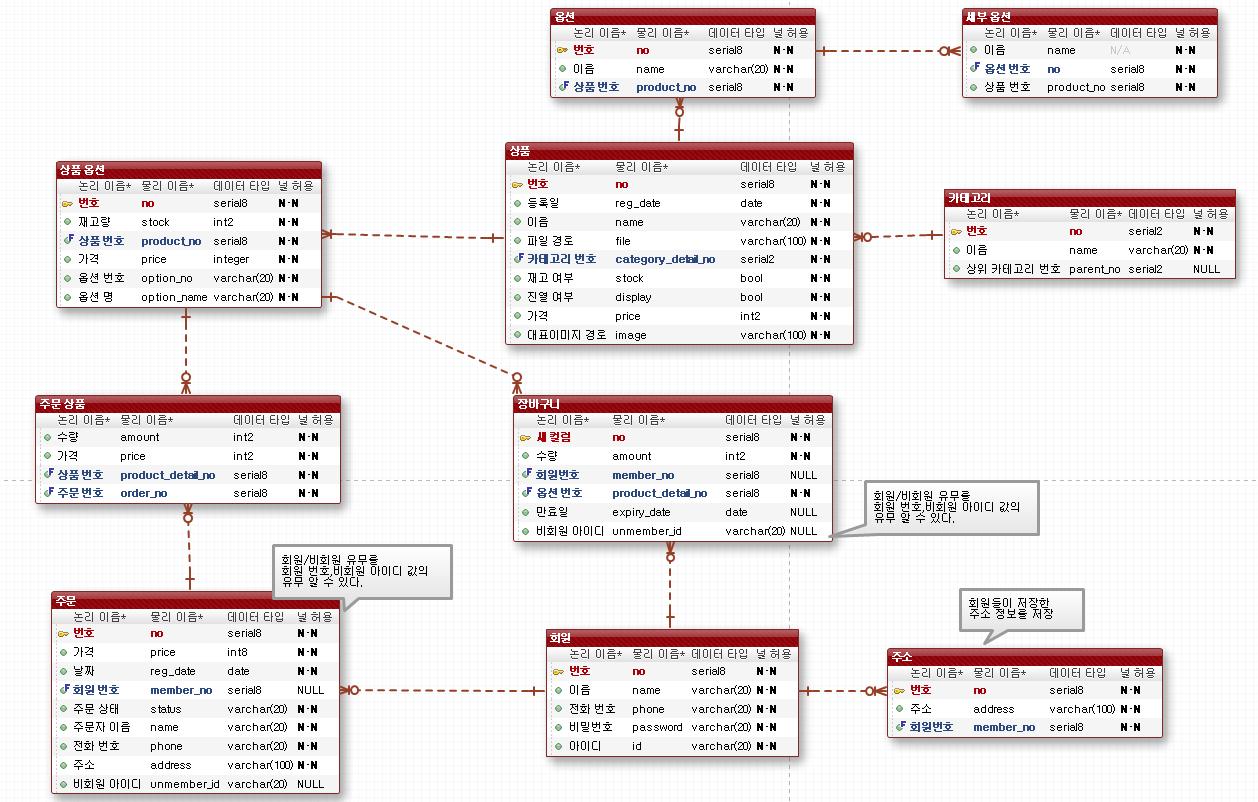
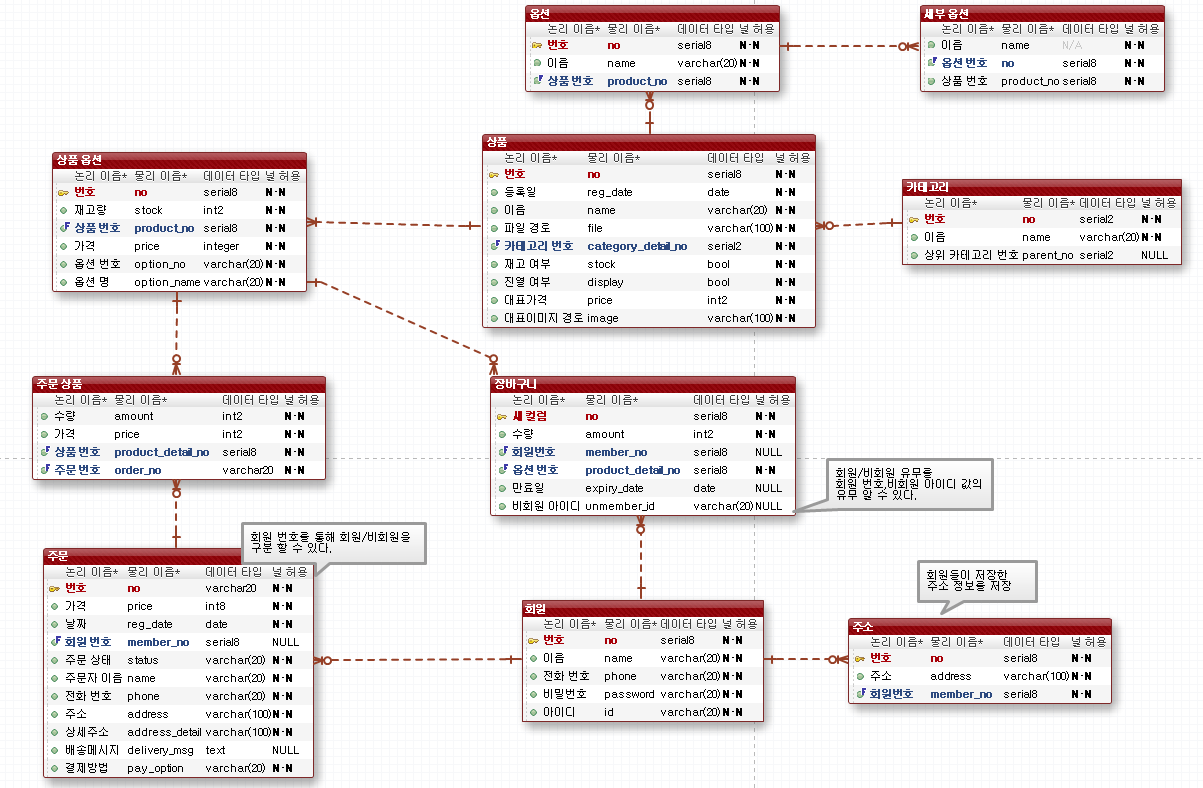
change img

diff --git a/md/erd.md b/md/erd.md
@@ -48,6 +48,14 @@
 
 
 
+### 주문
+
+비회원과 회원의 주문 모두를 저장한다. 회원/비회원 구분은 `회원번호` 컬럼 값의 존재로 판단한다.
+
+`번호`컬럼의 경우 `varchar`타입으로 비회원이 주문을 할 경우 이 값으로 주문조회가 가능하다.
+
+
+
 ### 주문 상품
 
 회원이 주문한 상품 각각의 정보를 가지고 있다. 상품의 가격은 시간에 따라 변할 수 있기 때문에 주문할 당시의 가격을 가지고 있는다.

diff --git a/md/usecase.md b/md/usecase.md
@@ -18,7 +18,7 @@
 
 ---
 
-### 간단한 고객 flowchart
+### 고객 flowchart
 
 ![고객 flowchart](<https://github.com/hanseonghye/ShoppingmallProject/blob/master/img/user-flowDiagram1.png>)
 
